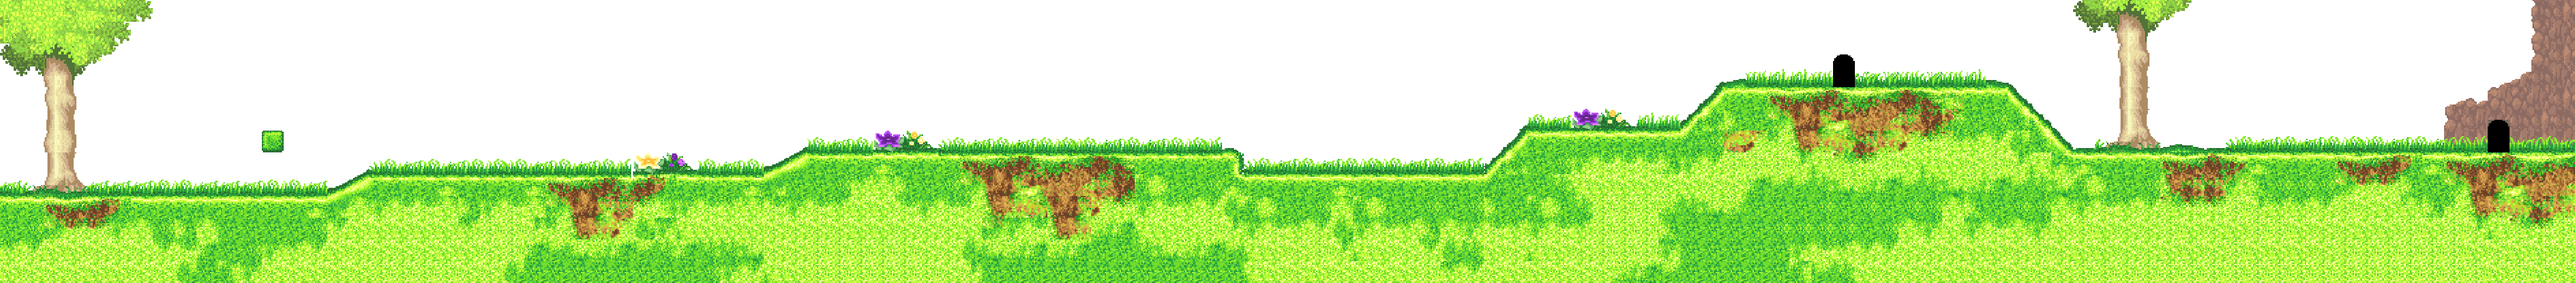
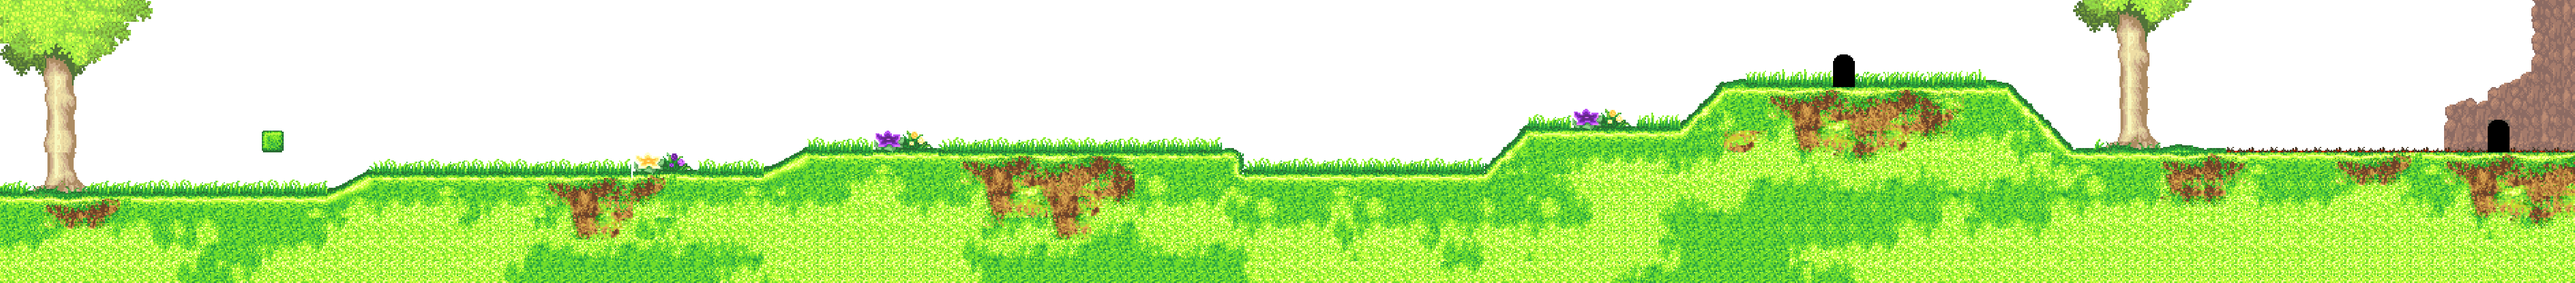
배연두 : background CameraRatio 적용, 엔진 업데이트, 맵 이미지 수정, Flamer 충돌 추가만

Changed region(s): [[0.8409, 0.4923, 1.0, 0.5538]]

diff --git a/EngineBase/EngineMath.cpp b/EngineBase/EngineMath.cpp
@@ -1,5 +1,11 @@
 #include "EngineMath.h"
 
+const float UEngineMath::PI = 3.14159265358979323846264338327950288419716939937510f;
+const float UEngineMath::PI2 = UEngineMath::PI * 2.0f;
+const float UEngineMath::DToR = UEngineMath::PI / 180.0f;
+const float UEngineMath::RToD = 180.0f / UEngineMath::PI;
+
+
 const float4 float4::Zero = { 0.0f, 0.0f, 0.0f, 0.0f };
 const float4 float4::Left = {-1.0f, 0.0f, 0.0f, 0.0f};
 const float4 float4::Right = { 1.0f, 0.0f, 0.0f, 0.0f };
@@ -20,11 +26,11 @@ const Color8Bit Color8Bit::BlueA = { 0, 0, 255, 0 };
 const Color8Bit Color8Bit::WhiteA = { 255, 255, 255, 0 };
 const Color8Bit Color8Bit::MagentaA = { 255, 0, 255, 0 };
 
-EngineMath::EngineMath() 
+UEngineMath::UEngineMath() 
 {
 }
 
-EngineMath::~EngineMath() 
+UEngineMath::~UEngineMath() 
 {
 }
 

diff --git a/Kirby/Flamer.cpp b/Kirby/Flamer.cpp
@@ -34,14 +34,24 @@ void AFlamer::BeginPlay() {
 			break;
 		}
 	}
-
-	//ActorScale = GetTransform().GetScale();
 	StateChange(EEnemyState::Idle);
+
+	FlamerCollision = CreateCollision(KirbyCollisionOrder::Monster);
+	FlamerCollision->SetScale({ 100, 100 });
+	FlamerCollision->SetColType(ECollisionType::Rect);
 }
 
 void AFlamer::Tick(float _DeltaTime) {
 	AActor::Tick(_DeltaTime);
 	StateUpdate(_DeltaTime);
+
+
+	std::vector<UCollision*> Result;
+	if (nullptr != FlamerCollision && true == FlamerCollision->CollisionCheck(KirbyCollisionOrder::Player, Result))
+	{
+		FlamerCollision->Destroy();
+		FlamerCollision = nullptr;
+	}
 }
 
 void AFlamer::StateChange(EEnemyState _State)

diff --git a/EngineCore/Level.cpp b/EngineCore/Level.cpp
@@ -1,6 +1,7 @@
 #include "Level.h"
 #include "Actor.h"
 #include <EngineBase\EngineDebug.h>
+#include "EngineDebug.h"
 #include "EngineCore.h"
 
 ULevel::ULevel()
@@ -85,6 +86,7 @@ void ULevel::LevelRender(float _DeltaTime)
 				Collision->DebugRender(CameraPos);
 			}
 		}
+		UEngineDebug::PrintDebugText(GEngine->MainWindow.GetBackBufferImage());
 	}
 }
 
